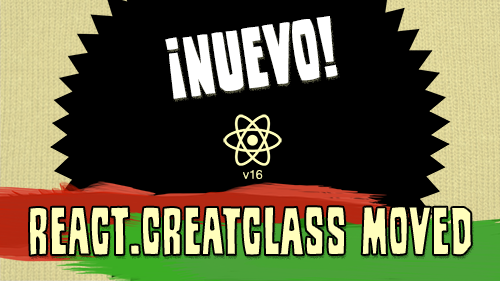
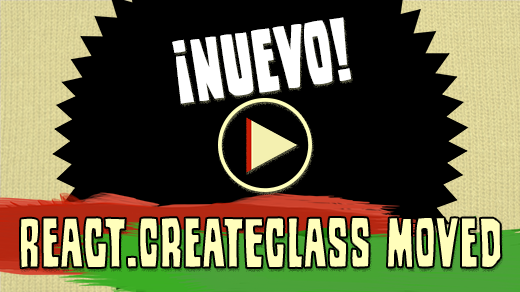
add play button to covers

diff --git a/pages/index.js b/pages/index.js
@@ -186,12 +186,12 @@ export default _ => (
       <Section.Content>
         <Section.Part>
           <Definition>
-            Lorem ipsum dolor sit amet, sit case soleat ea, no mei aperiam
-            indoctum constituto, mel summo disputationi et. Ei homero graecis
-            rationibus has, te idque ornatus suavitate qui. Eu vide malis oratio
-            eam, illud modus interesset vix te, nibh assentior pri no. Has ex
-            purto patrioque aliquando, in suscipit nominati est.
-            <Link href="https:/jaketrent.com">Official Docs</Link>
+            Returning strings is as straightforward as it seems, you can now
+            return strings! You have the ability to return just a string with no
+            HTML tags surrounding the string.
+            <Link href="https://reactjs.org/blog/2017/09/26/react-v16.0.html#new-render-return-types-fragments-and-strings">
+              Official Docs
+            </Link>
           </Definition>
         </Section.Part>
         <Section.Part>
@@ -259,7 +259,7 @@ export default _ => (
 
     <Section>
       <Section.Content>
-        <Section.Part2 title="The Project">
+        <Section.Part2 title="The Project" id="project">
           <Definition>
             Lorem ipsum dolor sit amet, sit case soleat ea, no mei aperiam
             indoctum constituto, mel summo disputationi et. Ei homero graecis
@@ -267,8 +267,7 @@ export default _ => (
             eam, illud modus interesset vix te, nibh assentior pri no. Has ex
             purto patrioque aliquando, in suscipit nominati est. Id alienum
             suscipiantur ius, est ipsum praesent suavitate ne.
-            <Link>Github</Link>
-            <Link>Demo</Link>
+            <Link href="https://github.com/jaketrent/stickerloot">Github</Link>
           </Definition>
         </Section.Part2>
 

diff --git a/ui/section.js b/ui/section.js
@@ -25,7 +25,7 @@ Section.Part = props => (
 
 Section.Part2 = props => (
   <div className="section-part">
-    <Section.Heading>{props.title}</Section.Heading>
+    <Section.Heading id={props.id}>{props.title}</Section.Heading>
     <div className="body">{props.children}</div>
     <style jsx>{`
       .section-part {

diff --git a/ui/video.js b/ui/video.js
@@ -37,6 +37,7 @@ export default class extends React.Component {
             width: 100%;
             max-width: 498px;
             align-self: center;
+            cursor: pointer;
           }
           .container {
             position: relative;

diff --git a/ui/link.js b/ui/link.js
@@ -7,6 +7,9 @@ export default props => (
       span {
         text-decoration: underline;
       }
+      .link-container {
+        margin-top: 1em;
+      }
     `}</style>
   </div>
 )
